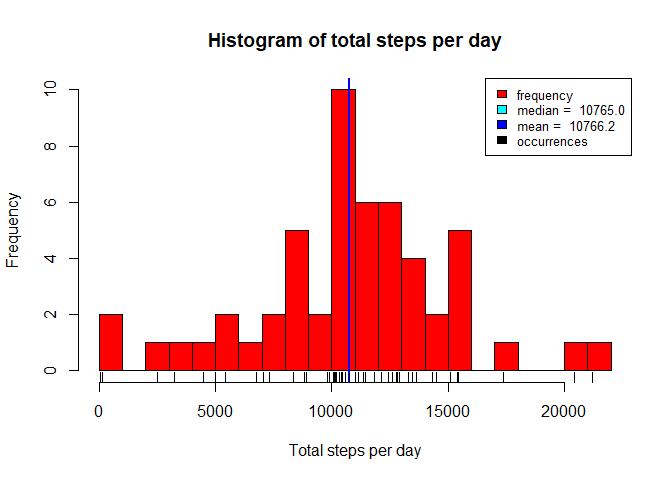
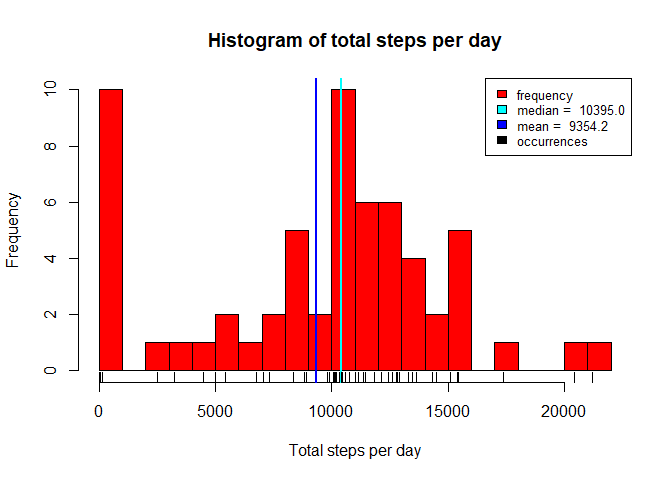
amended sum with na.rm=TRUE

Changed region(s): [[0.125, 0.1875, 0.1875, 0.6562], [0.5, 0.1562, 0.5312, 0.7812], [0.8438, 0.2188, 0.9375, 0.2812]]

diff --git a/PA1_template.html b/PA1_template.html
@@ -180,12 +180,12 @@ summary(activitydata)</code></pre>
 </ol>
 </blockquote>
 <p>Let’s calculate the totals:</p>
-<pre class="r"><code>totalstepsperday &lt;- tapply(activitydata$steps, activitydata$date, sum)
+<pre class="r"><code>totalstepsperday &lt;- tapply(activitydata$steps, activitydata$date, sum, na.rm=TRUE)
 summary(totalstepsperday)</code></pre>
-<pre><code>##    Min. 1st Qu.  Median    Mean 3rd Qu.    Max.    NA's 
-##      41    8841   10765   10766   13294   21194       8</code></pre>
+<pre><code>##    Min. 1st Qu.  Median    Mean 3rd Qu.    Max. 
+##       0    6778   10395    9354   12811   21194</code></pre>
 <pre class="r"><code>str(totalstepsperday)</code></pre>
-<pre><code>##  int [1:61(1d)] NA 126 11352 12116 13294 15420 11015 NA 12811 9900 ...
+<pre><code>##  int [1:61(1d)] 0 126 11352 12116 13294 15420 11015 0 12811 9900 ...
 ##  - attr(*, &quot;dimnames&quot;)=List of 1
 ##   ..$ : chr [1:61] &quot;2012-10-01&quot; &quot;2012-10-02&quot; &quot;2012-10-03&quot; &quot;2012-10-04&quot; ...</code></pre>
 <p>Here is the histogram:</p>
@@ -198,11 +198,11 @@ rugcolor &lt;- &quot;black&quot;
 ##define median and print it.
 mdn &lt;- median(totalstepsperday, na.rm=TRUE)
 mdn</code></pre>
-<pre><code>## [1] 10765</code></pre>
+<pre><code>## [1] 10395</code></pre>
 <pre class="r"><code>##define mean and print it.
 mn &lt;- mean(totalstepsperday, na.rm=TRUE)
 mn</code></pre>
-<pre><code>## [1] 10766.19</code></pre>
+<pre><code>## [1] 9354.23</code></pre>
 <pre class="r"><code>## add histogram
 hist(totalstepsperday, breaks=20, main=&quot;Histogram of total steps per day&quot;, 
      xlab=&quot;Total steps per day&quot;, ylab=&quot;Frequency&quot;, col=histcolor)
@@ -220,8 +220,7 @@ rug(totalstepsperday, col=rugcolor)
 legend(x= &quot;topright&quot;, c(&quot;frequency&quot;, paste(&quot;median = &quot;,format(round(mdn,digits=1),nsmall=1)), 
     paste(&quot;mean = &quot;,format(round(mn,digits=1),nsmall=1)), &quot;occurrences&quot;), cex=0.8, 
     fill=c(histcolor, mediancolor, meancolor, rugcolor))</code></pre>
[1 lines of base64/hex data omitted]
-<p>We note that median and mean are very similar in this case so the lines overlap in the graph.</p>
[1 lines of base64/hex data omitted]
 </div>
 <div id="what-is-the-average-daily-activity-pattern" class="section level2">
 <h2>What is the average daily activity pattern?</h2>
@@ -287,7 +286,7 @@ summary(nasteps)</code></pre>
 sum(is.na(fulldata))</code></pre>
 <pre><code>## [1] 0</code></pre>
 <p>Making a new histogram from the data without missing values is the same process as making the first histogram - but using the different data set.</p>
-<pre class="r"><code>fulltotalstepsperday &lt;- tapply(fulldata$steps,fulldata$date,sum)
+<pre class="r"><code>fulltotalstepsperday &lt;- tapply(fulldata$steps,fulldata$date,sum, na.rm=TRUE)
 summary(fulltotalstepsperday)</code></pre>
 <pre><code>##    Min. 1st Qu.  Median    Mean 3rd Qu.    Max. 
 ##      41    9819   10641   10750   12811   21194</code></pre>
@@ -324,10 +323,9 @@ legend(x= &quot;topright&quot;, c(&quot;frequency&quot;, paste(&quot;median = &q
     fill=c(histcolor, mediancolor, meancolor, rugcolor))</code></pre>
[1 lines of base64/hex data omitted]
 <p>The difference in the median and mean is:</p>
-<p>Median: Old value: 10765.0. New value: 10641.0. Difference: -124.0.</p>
-<p>Mean: Old value: 10766.2. New value: 10749.8. Difference: -16.4.</p>
-<p>We notice both the values have gone down, even if we have added more values to replace the missing values.</p>
-<p>This is probably due to our choice to add the truncated mean of the steps for each interval - so the days that previously had no values, now have values that are a bit lower than the averages of the same intervals in the other days.</p>
+<p>Median: Old value: 10395.0. New value: 10641.0. Difference: 246.0.</p>
+<p>Mean: Old value: 9354.2. New value: 10749.8. Difference: 1395.5.</p>
+<p>We notice both the values have gone up.</p>
 <p>We can analyse a bit more where is the missing data in our dataset.</p>
 <pre class="r"><code>natotals &lt;- tapply(X=is.na(activitydata$steps), INDEX=activitydata$date, FUN=sum)
 summary(natotals)</code></pre>

diff --git a/PA1_template.md b/PA1_template.md
@@ -97,13 +97,13 @@ Let's calculate the totals:
 
 
 ```r
-totalstepsperday <- tapply(activitydata$steps, activitydata$date, sum)
+totalstepsperday <- tapply(activitydata$steps, activitydata$date, sum, na.rm=TRUE)
 summary(totalstepsperday)
 ```
 
 ```
-##    Min. 1st Qu.  Median    Mean 3rd Qu.    Max.    NA's 
-##      41    8841   10765   10766   13294   21194       8
+##    Min. 1st Qu.  Median    Mean 3rd Qu.    Max. 
+##       0    6778   10395    9354   12811   21194
 ```
 
 ```r
@@ -111,7 +111,7 @@ str(totalstepsperday)
 ```
 
 ```
-##  int [1:61(1d)] NA 126 11352 12116 13294 15420 11015 NA 12811 9900 ...
+##  int [1:61(1d)] 0 126 11352 12116 13294 15420 11015 0 12811 9900 ...
 ##  - attr(*, "dimnames")=List of 1
 ##   ..$ : chr [1:61] "2012-10-01" "2012-10-02" "2012-10-03" "2012-10-04" ...
 ```
@@ -132,7 +132,7 @@ mdn
 ```
 
 ```
-## [1] 10765
+## [1] 10395
 ```
 
 ```r
@@ -142,7 +142,7 @@ mn
 ```
 
 ```
-## [1] 10766.19
+## [1] 9354.23
 ```
 
 ```r
@@ -166,8 +166,6 @@ legend(x= "topright", c("frequency", paste("median = ",format(round(mdn,digits=1
 ```
 
 ![](PA1_template_files/figure-html/histogram.total.number.of.steps.taken.per.day-1.png)<!-- -->
-
-We note that median and mean are very similar in this case so the lines overlap in the graph.
 
 
 ## What is the average daily activity pattern?
@@ -305,7 +303,7 @@ Making a new histogram from the data without missing values is the same process 
 
 
 ```r
-fulltotalstepsperday <- tapply(fulldata$steps,fulldata$date,sum)
+fulltotalstepsperday <- tapply(fulldata$steps,fulldata$date,sum, na.rm=TRUE)
 summary(fulltotalstepsperday)
 ```
 
@@ -372,13 +370,11 @@ legend(x= "topright", c("frequency", paste("median = ", format(round(fullmdn,dig
 
 The difference in the median and mean is:
 
-Median: Old value: 10765.0. New value: 10641.0. Difference: -124.0.
+Median: Old value: 10395.0. New value: 10641.0. Difference: 246.0.
 
-Mean: Old value: 10766.2. New value: 10749.8. Difference: -16.4.
+Mean: Old value: 9354.2. New value: 10749.8. Difference: 1395.5.
 
-We notice both the values have gone down, even if we have added more values to replace the missing values. 
-
-This is probably due to our choice to add the truncated mean of the steps for each interval - so the days that previously had no values, now have values that are a bit lower than the averages of the same intervals in the other days. 
+We notice both the values have gone up. 
 
 We can analyse a bit more where is the missing data in our dataset.
 
